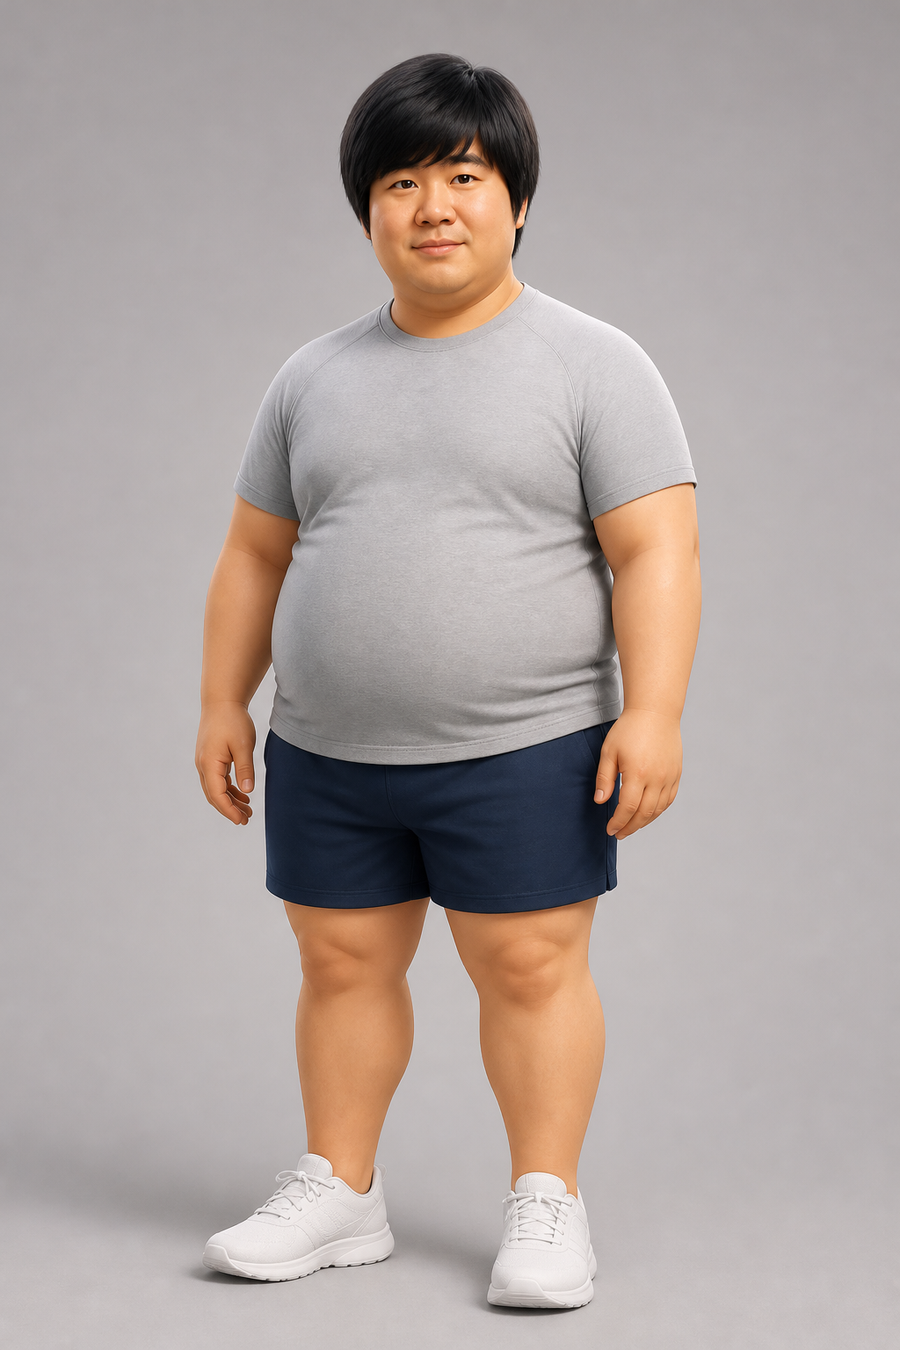
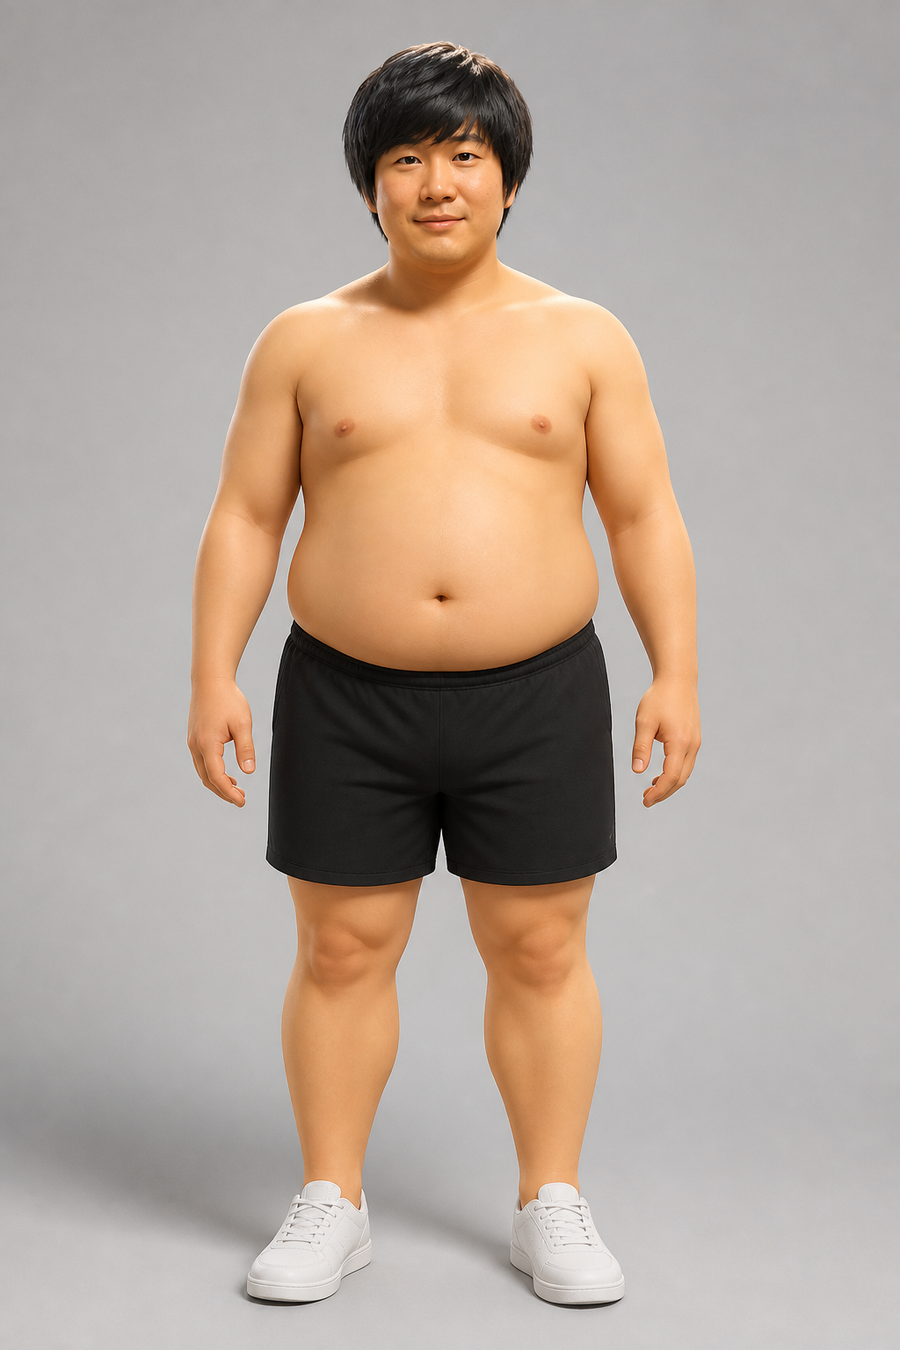
상의 탈의 피트니스 바디체크 스타일로 3D 캐릭터·갤러리 이미지 변경

Changed region(s): [[0.0, 0.0311, 0.7778, 0.9956], [0.6533, 0.7467, 0.6844, 0.8089]]

diff --git a/app.js b/app.js
@@ -250,7 +250,7 @@ const COLORS = {
   skin: 0xd9a07c,
   skinDark: 0xc98f6b,
   shirt: 0xb7bcc5,
-  shorts: 0x2b3c58,
+  shorts: 0x171b22,
   shoe: 0xeef1f4,
   hair: 0x14100f,
   floor: 0x0f1620,
@@ -452,9 +452,9 @@ class Character3D {
     body.add(hips);
     this.hips = hips;
 
-    /* --- 몸통(셔츠) --- */
+    /* --- 몸통 (상의 없이 피부) --- */
     this.torsoGeo = buildTubeGeometry(20, 30);
-    this.torso = new THREE.Mesh(this.torsoGeo, this.mat.shirt);
+    this.torso = new THREE.Mesh(this.torsoGeo, this.mat.skin);
     this.torso.castShadow = true;
     this.torso.receiveShadow = true;
     hips.add(this.torso);
@@ -520,11 +520,6 @@ class Character3D {
       const upper = makeLimb(this.mat.skin);
       shoulder.add(upper);
 
-      // 반소매
-      const sleeve = makeLimb(this.mat.shirt);
-      sleeve.position.y = -0.075;
-      shoulder.add(sleeve);
-
       const elbow = new THREE.Group();
       elbow.position.y = -0.30;
       shoulder.add(elbow);
@@ -536,7 +531,7 @@ class Character3D {
       hand.castShadow = true;
       elbow.add(hand);
 
-      this.arms[side] = { sgn, shoulder, upper, sleeve, elbow, fore, hand };
+      this.arms[side] = { sgn, shoulder, upper, elbow, fore, hand };
     }
 
     /* --- 반바지(골반) --- */
@@ -625,8 +620,6 @@ class Character3D {
       a.shoulder.position.x = a.sgn * (p.shoulder * 0.86);
       a.shoulder.position.y = torsoH - 0.055;
       setLimb(a.upper, p.armR, 0.30);
-      a.sleeve.scale.set(p.armR * 1.16, 0.055, p.armR * 1.16);
-      a.sleeve.position.y = -0.072;
       a.elbow.position.y = -0.295;
       setLimb(a.fore, p.armR * 0.86, 0.27);
       a.hand.scale.set(p.armR * 1.05, p.armR * 1.45, p.armR * 0.72);
